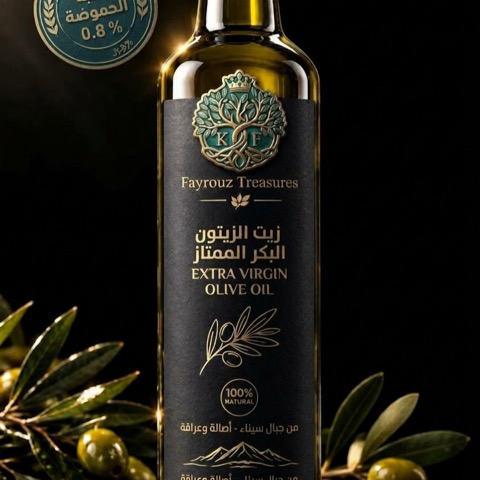
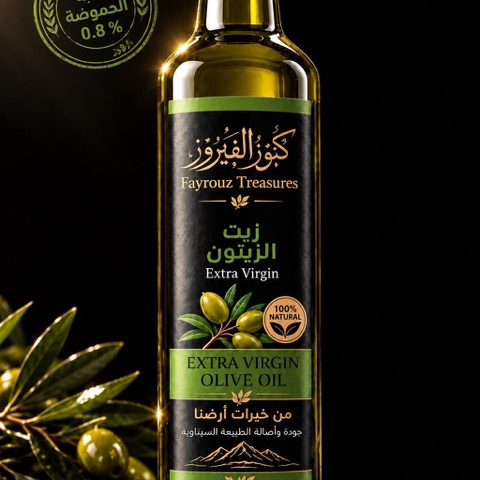
Replace all 4 product photos with new branded shots (#13)
New consistent "Kunuz Al Fayrouz" branded photography for all 4
products (olive oil, nigella/black-seed honey, raw honey, citrus
flower honey) - honeycomb-pattern labels, matching staging (black
seed, honeycomb, flowers), warm backlit mood lighting. Replaces the
previous mixed-source set with a single cohesive shoot.

Same local-file convention as before (images/<name>.jpg full res for
PDP hero, images/<name>-thumb.jpg 480x480 crop for cards), so no HTML
src references needed to change - just updated the width/height
attributes on each PDP hero <img> to match the new images' actual
dimensions (previously mismatched sizes would have skewed aspect
ratio hints before the image loads).

diff --git a/kunoz-honey.html b/kunoz-honey.html
@@ -87,7 +87,7 @@ src="https://www.facebook.com/tr?id=2165511077625659&ev=PageView&noscript=1"
 
 <div class="pdp-wrap">
   <div class="pdp-gallery reveal">
-    <img src="images/honey-nigella.jpg" alt="عسل حبة البركة - كنوز الفيروز" id="pdpImg" fetchpriority="high" width="666" height="816">
+    <img src="images/honey-nigella.jpg" alt="عسل حبة البركة - كنوز الفيروز" id="pdpImg" fetchpriority="high" width="1024" height="1536">
   </div>
   <div class="pdp-info reveal">
     <div class="breadcrumb">كنوز الفيروز | عسل طبيعي</div>

diff --git a/kunoz-olive-oil.html b/kunoz-olive-oil.html
@@ -87,7 +87,7 @@ src="https://www.facebook.com/tr?id=2165511077625659&ev=PageView&noscript=1"
 
 <div class="pdp-wrap">
   <div class="pdp-gallery reveal">
-    <img src="images/olive-oil.jpg" alt="زيت زيتون بكر - كنوز الفيروز" id="pdpImg" fetchpriority="high" width="843" height="1264">
+    <img src="images/olive-oil.jpg" alt="زيت زيتون بكر - كنوز الفيروز" id="pdpImg" fetchpriority="high" width="1024" height="1536">
   </div>
   <div class="pdp-info reveal">
     <div class="breadcrumb">كنوز الفيروز | زيت الزيتون</div>

diff --git a/kunoz-honey-mawalih.html b/kunoz-honey-mawalih.html
@@ -87,7 +87,7 @@ src="https://www.facebook.com/tr?id=2165511077625659&ev=PageView&noscript=1"
 
 <div class="pdp-wrap">
   <div class="pdp-gallery reveal">
-    <img src="images/honey-citrus.jpg" alt="عسل الموالح - كنوز الفيروز" id="pdpImg" fetchpriority="high" width="706" height="810">
+    <img src="images/honey-citrus.jpg" alt="عسل الموالح - كنوز الفيروز" id="pdpImg" fetchpriority="high" width="843" height="1264">
   </div>
   <div class="pdp-info reveal">
     <div class="breadcrumb">كنوز الفيروز | عسل طبيعي</div>

diff --git a/kunoz-honey-pure.html b/kunoz-honey-pure.html
@@ -87,7 +87,7 @@ src="https://www.facebook.com/tr?id=2165511077625659&ev=PageView&noscript=1"
 
 <div class="pdp-wrap">
   <div class="pdp-gallery reveal">
-    <img src="images/honey-raw.jpg" alt="عسل خام - كنوز الفيروز" id="pdpImg" fetchpriority="high" width="632" height="804">
+    <img src="images/honey-raw.jpg" alt="عسل خام - كنوز الفيروز" id="pdpImg" fetchpriority="high" width="1024" height="1535">
   </div>
   <div class="pdp-info reveal">
     <div class="breadcrumb">كنوز الفيروز | عسل طبيعي</div>
